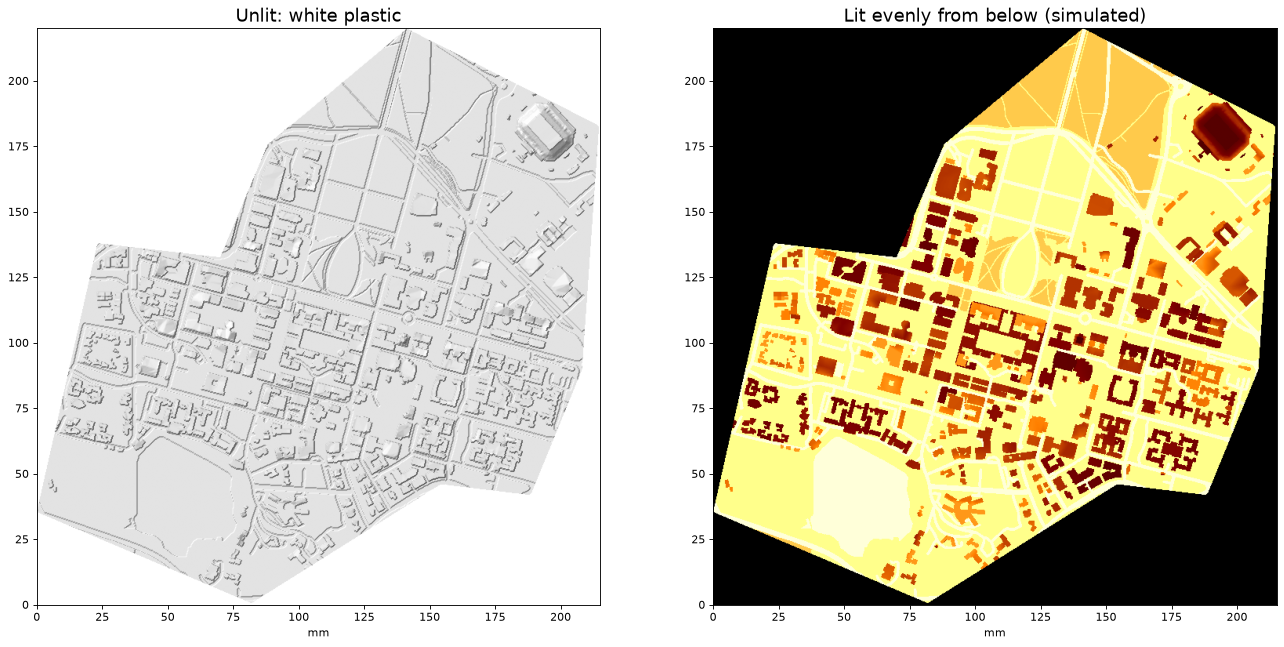
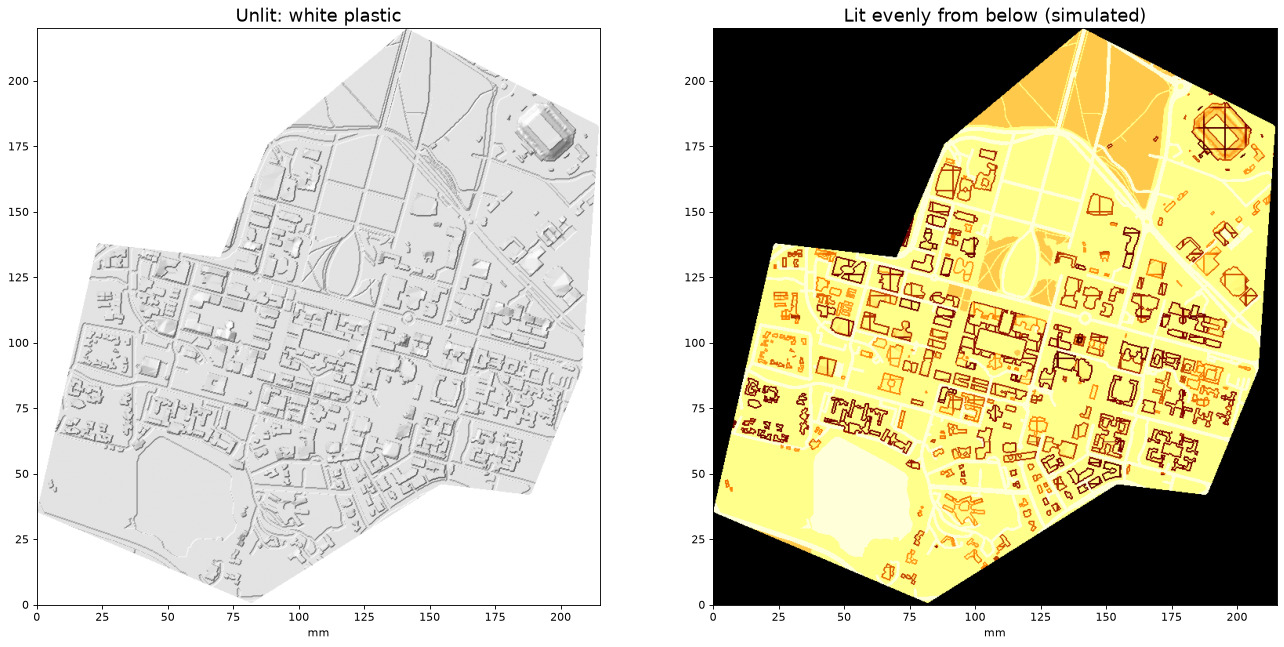
Hollow buildings on the thin plate; simulate people as dots
Solid buildings chopped up any dot beneath them. Buildings are now
hollow underneath with a 0.8 mm roof and thin ribs on the LED pixel
lines, so a dot shines through a building as brightly as open ground.
simulate_dots.py renders example people on the 64x64 matrix.

Claude-Session: https://claude.ai/code/session_01Us23aGd6Debsz7E4MuXNer

diff --git a/thin_map.py b/thin_map.py
@@ -6,7 +6,9 @@ thick plastic stays dim, so the map is drawn in thickness:
     roads, water   0.6 mm   brightest
     open ground    0.8 mm
     woods          1.0 mm
-    buildings      0.8 mm + real building height   dimmest
+    buildings      raised to their real height, but hollow underneath, so
+                   the roof is still only 0.8 mm thick and a light under a
+                   building shines through as brightly as one in the open
 
 Run:  .venv/bin/python -I thin_map.py <folder with the .3mf and georeference.json>
 """
@@ -35,6 +37,8 @@ GRID = 0.3                 # mm between mesh points
 GROUND, ROAD, WATER, WOODS = 0.8, 0.6, 0.6, 1.0     # plate thickness in mm
 MAX_BUILDING = 8.0         # cap so Hoover Tower is not a fragile needle
 PANEL_PX, PANEL_PITCH = 64, 4.0                     # 64x64 matrix, 4 mm per pixel
+SKIN = 0.8                 # roof thickness over the hollow under each building
+RIB_PITCH = 8.0            # thin ribs under big roofs so they do not sag while printing
 SAMPLE_STEP = 0.09
 DEST = OUT / "thin"
 
@@ -101,13 +105,29 @@ def clean_outline(covered):
             part |= bad
 
 
-def plate_mesh(thickness, inside):
-    """Closed mesh: flat bottom at z=0, top at the given thickness, walls at the outline."""
+def hollow_under(top):
+    """Underside height: 0 on the ground, raised under buildings to leave a thin roof."""
+    yy, xx = np.mgrid[-2:3, -2:3]
+    disk = yy * yy + xx * xx <= 4
+    # erosion keeps the hollow 0.6 mm in from each wall so building walls stay solid
+    bottom = np.maximum(ndimage.grey_erosion(top, footprint=disk, mode="nearest") - SKIN, 0)
+    bottom[bottom < 0.4] = 0      # only hollow real buildings, not 0.2 mm bumps like woods
+    rows, cols = top.shape
+    # ribs sit on the lines between LED pixels, measured from the plate centre
+    x = np.arange(cols) * GRID - (cols - 1) * GRID / 2
+    y = np.arange(rows) * GRID - (rows - 1) * GRID / 2
+    on_rib = lambda v: np.abs((v + RIB_PITCH / 2) % RIB_PITCH - RIB_PITCH / 2) <= GRID
+    bottom[on_rib(y)[:, None] | on_rib(x)[None, :]] = 0
+    return bottom
+
+
+def plate_mesh(thickness, inside, bottom):
+    """Closed mesh between the underside and the top, with walls at the outline."""
     rows, cols = thickness.shape
     X, Y = np.meshgrid(np.arange(cols) * GRID, (rows - 1 - np.arange(rows)) * GRID)
     n = rows * cols
     verts = np.concatenate([np.stack([X, Y, thickness], -1).reshape(-1, 3),
-                            np.stack([X, Y, np.zeros_like(X)], -1).reshape(-1, 3)])
+                            np.stack([X, Y, bottom], -1).reshape(-1, 3)])
     vid = np.arange(n).reshape(rows, cols)
     a, b, d, e = vid[:-1, :-1], vid[:-1, 1:], vid[1:, :-1], vid[1:, 1:]
     top = np.concatenate([np.stack([a, d, b], -1)[inside], np.stack([b, d, e], -1)[inside]])
@@ -152,7 +172,11 @@ def main(folder):
     thickness[building] = GROUND + height[building]
 
     inside = clean_outline(owner >= 0)
-    verts, faces = plate_mesh(thickness, inside)
+    bottom = hollow_under(thickness)
+    # the outer rim must reach the bed, or the edge wall would have a gap under it
+    rim = ndimage.binary_dilation(~np.pad(inside, ((0, 1), (0, 1))), iterations=3)
+    bottom[rim] = 0
+    verts, faces = plate_mesh(thickness, inside, bottom)
     assert check_watertight(faces), "plate is not watertight"
     write_stl(DEST / "thin_map.stl", verts, faces)
     vol = volume_cm3(verts, faces)
@@ -165,7 +189,9 @@ def main(folder):
     n = round(60 / GRID)
     cut = np.zeros_like(inside)
     cut[r0:r0 + n, c0:c0 + n] = inside[r0:r0 + n, c0:c0 + n]
-    sv, sf = plate_mesh(thickness, cut)
+    sample_bottom = bottom.copy()
+    sample_bottom[ndimage.binary_dilation(~np.pad(cut, ((0, 1), (0, 1))), iterations=3)] = 0
+    sv, sf = plate_mesh(thickness, cut, sample_bottom)
     assert check_watertight(sf)
     sv[:, 0] -= c0 * GRID
     sv[:, 1] -= (thickness.shape[0] - 1 - r0 - n) * GRID
@@ -183,17 +209,19 @@ def main(folder):
                 f"col = (x + {panel_mm / 2}) / pitch, row = ({panel_mm / 2} - y) / pitch",
     }, indent=2))
 
-    np.save(DEST / "thickness.npy", np.where(np.pad(inside, ((0, 1), (0, 1))), thickness, np.nan))
-    render(thickness, np.pad(inside, ((0, 1), (0, 1))), w_mm, h_mm)
+    covered = np.pad(inside, ((0, 1), (0, 1)))
+    # thickness.npy = how much plastic the light passes through at each point
+    np.save(DEST / "thickness.npy", np.where(covered, thickness - bottom, np.nan))
+    render(thickness, thickness - bottom, covered, w_mm, h_mm)
 
 
-def render(thickness, inside, w_mm, h_mm):
+def render(thickness, plastic, inside, w_mm, h_mm):
     fig, axes = plt.subplots(1, 2, figsize=(20, 10.5), facecolor="white")
     shade = LightSource(315, 45).hillshade(thickness, vert_exag=4, dx=GRID, dy=GRID)
     unlit = np.where(inside, 0.35 + 0.65 * shade, 1.0)
     axes[0].imshow(unlit, cmap="gray", vmin=0, vmax=1, extent=[0, w_mm, 0, h_mm])
     axes[0].set_title("Unlit: white plastic", fontsize=16)
-    glow = np.exp(-thickness / 0.9)                       # thinner plastic = brighter
+    glow = np.exp(-plastic / 0.9)                         # thinner plastic = brighter
     glow = (glow - glow[inside].min()) / np.ptp(glow[inside])
     lit = np.where(inside, glow, np.nan)
     axes[1].set_facecolor("black")

diff --git a/simulate_dots.py b/simulate_dots.py
@@ -1,0 +1,80 @@
+"""Picture of the thin map with people shown as coloured dots.
+
+Uses made-up people at well-known spots. It draws what the 64x64 LED
+matrix would show, then dims it by the plastic thickness above each pixel.
+
+Run after thin_map.py:  .venv/bin/python simulate_dots.py
+"""
+
+import json
+
+import matplotlib
+import numpy as np
+from pyproj import CRS, Transformer
+from scipy import ndimage
+
+matplotlib.use("Agg")
+import matplotlib.pyplot as plt
+
+from build_terrain import OUT
+
+GRID = 0.3                       # must match thin_map.py
+DOT_PIXELS = 2                   # each person lights a 2x2 block (8 mm) so it is easy to see
+PEOPLE = {                       # name: (lat, lon, colour) - example positions only
+    "A": (37.4246, -122.1656, (1.0, 0.25, 0.25)),   # Stern Hall
+    "B": (37.4275, -122.1703, (0.25, 0.6, 1.0)),    # Main Quad
+    "C": (37.4269, -122.1672, (0.3, 1.0, 0.4)),     # Green Library
+    "D": (37.4315, -122.1744, (1.0, 0.85, 0.2)),    # Clark Center
+    "E": (37.4247, -122.1763, (0.9, 0.4, 1.0)),     # Lakeside Dining
+    "F": (37.4345, -122.1611, (1.0, 0.55, 0.1)),    # Stadium
+    "G": (37.4296, -122.1698, (0.2, 1.0, 0.9)),     # The Oval
+}
+
+
+def latlon_to_pixel(lat, lon, m, to_local):
+    """GPS position -> (row, col) on the LED matrix."""
+    x, y = to_local.transform(lon, lat)
+    x = x * m["mm_per_metre"] - m["model_centre_mm"][0]
+    y = y * m["mm_per_metre"] - m["model_centre_mm"][1]
+    half = m["panel_pixels"] * m["pixel_pitch_mm"] / 2
+    return int((half - y) // m["pixel_pitch_mm"]), int((x + half) // m["pixel_pitch_mm"])
+
+
+def main():
+    thin = OUT / "thin"
+    m = json.loads((thin / "map.json").read_text())
+    thickness = np.load(thin / "thickness.npy")
+    inside = np.isfinite(thickness)
+    to_local = Transformer.from_crs("EPSG:4326", CRS.from_proj4(m["proj4"]), always_xy=True)
+    n, pitch = m["panel_pixels"], m["pixel_pitch_mm"]
+
+    def through_plastic(leds):
+        """What you see on top of the plate for a given 64x64 LED picture."""
+        rows, cols = thickness.shape
+        # plate is centred on the panel; find which LED sits under each plate point
+        y_mm = (rows - 1) * GRID / 2 - np.arange(rows) * GRID
+        x_mm = np.arange(cols) * GRID - (cols - 1) * GRID / 2
+        r = np.clip(((n * pitch / 2 - y_mm) // pitch).astype(int), 0, n - 1)
+        c = np.clip(((x_mm + n * pitch / 2) // pitch).astype(int), 0, n - 1)
+        img = leds[r][:, c]
+        img = ndimage.gaussian_filter(img, sigma=(5, 5, 0))       # light spreads ~1.5 mm in the plastic
+        img = img * np.exp(-np.where(inside, thickness, 99) / 0.9)[..., None]
+        return np.clip(img * 2.6, 0, 1)
+
+    dots = np.zeros((n, n, 3))
+    for name, (lat, lon, colour) in PEOPLE.items():
+        row, col = latlon_to_pixel(lat, lon, m, to_local)
+        dots[row:row + DOT_PIXELS, col:col + DOT_PIXELS] = colour
+        print(f"{name}: pixel row {row}, col {col}")
+
+    fig, axes = plt.subplots(1, 2, figsize=(20, 10.5), facecolor="black")
+    views = [("Dots only", dots), ("Dots + dim map glow", np.maximum(dots, 0.07))]
+    for ax, (title, leds) in zip(axes, views):
+        ax.imshow(through_plastic(leds))
+        ax.set_title(title, color="white", fontsize=18)
+        ax.set_axis_off()
+    fig.savefig(thin / "dots_preview.png", dpi=80, bbox_inches="tight", facecolor="black")
+
+
+if __name__ == "__main__":
+    main()
